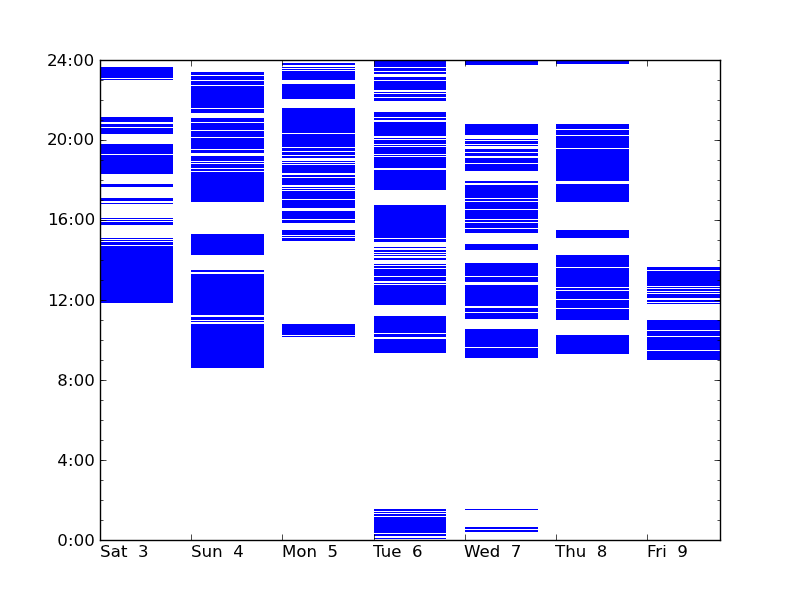
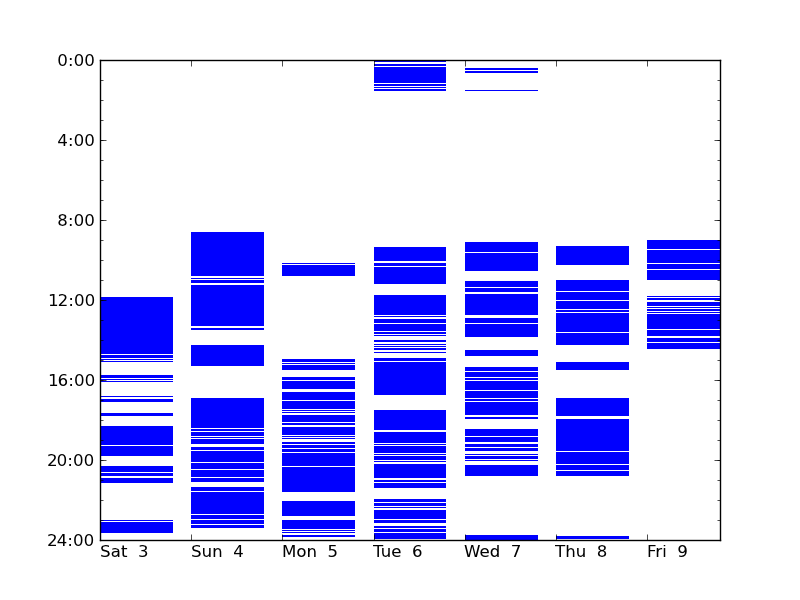
Inverted the Y axis (time).

Changed region(s): [[0.0625, 0.09, 0.9062, 0.9], [0.0625, 0.87, 0.2188, 0.93]]

diff --git a/comptime.py b/comptime.py
@@ -138,7 +138,7 @@ def data4plot(data):
 	return start_times, end_times, intervals
 
 
-def makeBarPlot(data):
+def makeBarPlot(data, invert_time=True):
 	"""
 	data:	3-tuple of lists
 			start_times:	list of datetime instances for event start
@@ -187,6 +187,8 @@ def makeBarPlot(data):
 
 	## Customize the y axis
 	ax.set_ylim([0, 24*60])
+	if invert_time:
+		ax.invert_yaxis()									# time axis is from 00:00 (top) to 23:59 (bottom) like in iCal
 	ax.yaxis.set_minor_locator(plt.MultipleLocator(60))		# a tick mark every hour
 	ax.yaxis.set_major_locator(plt.MultipleLocator(4*60))	# a tick label every 4 hours
 	# format y axis tick labels as Hour:Minute using a custom formatter
@@ -197,7 +199,7 @@ def makeBarPlot(data):
 	ax.yaxis.set_major_formatter(ff(m2hm))					# the custom formatter
 
 
-	plt.savefig("barplot2.png")
+	plt.savefig("barplot.png")
 	return
 
 
